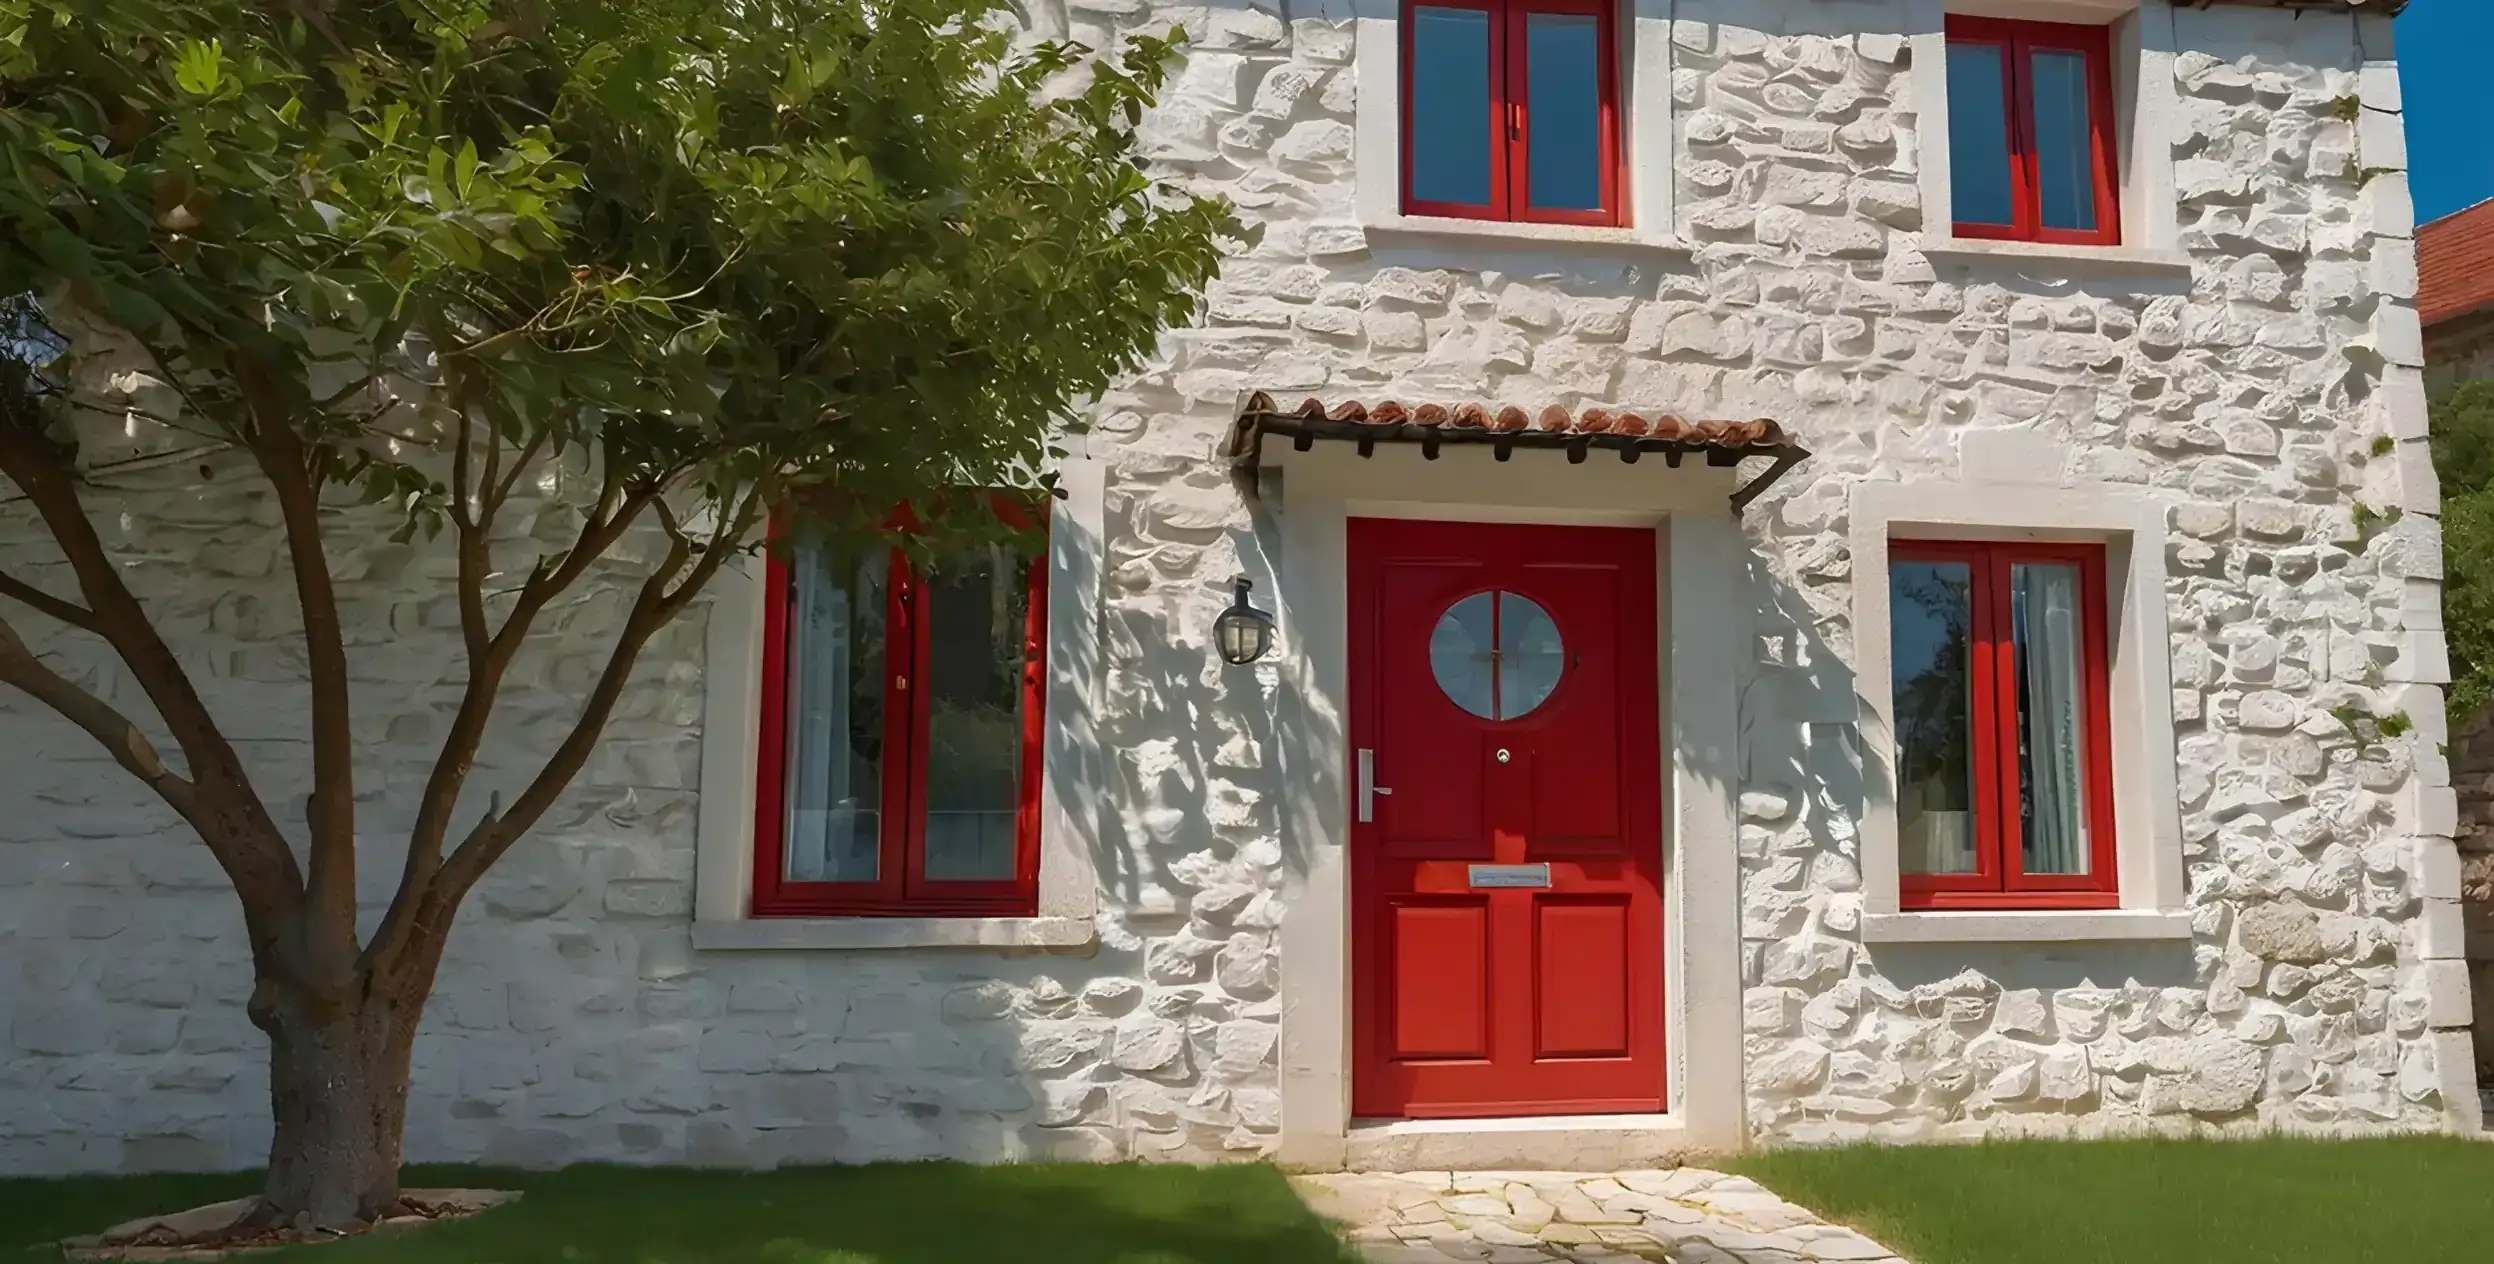
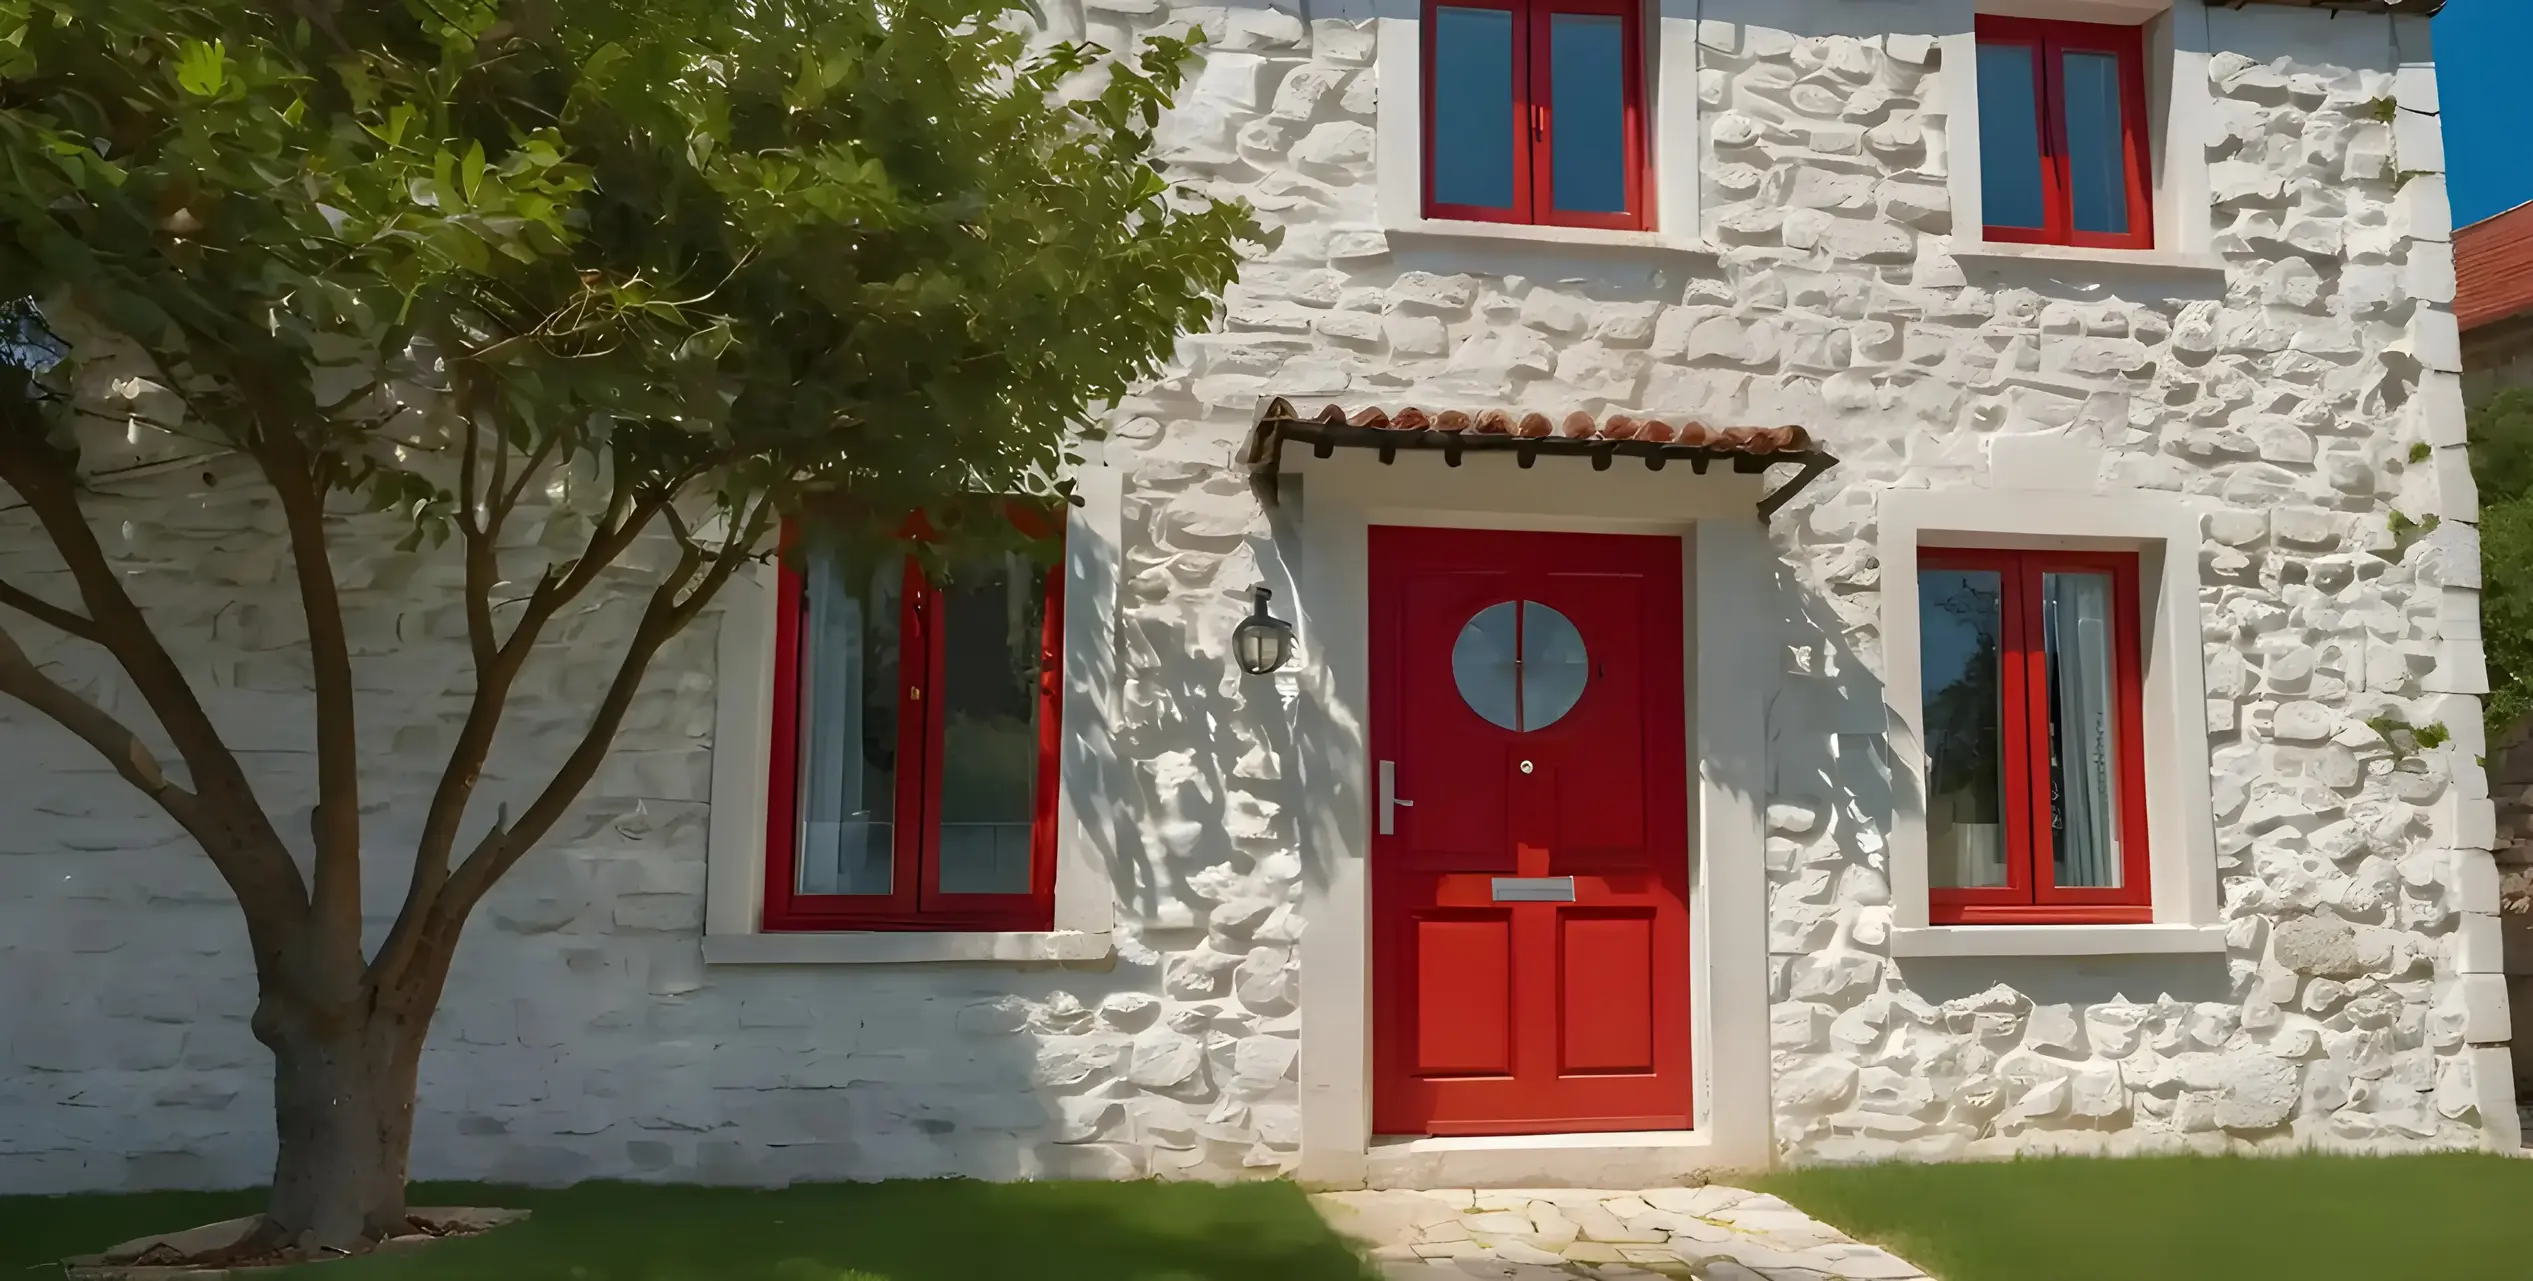
nouveau format image LCP

diff --git a/resources/views/pages/main/accueil.blade.php b/resources/views/pages/main/accueil.blade.php
@@ -49,7 +49,7 @@
                 text="Portes de garage sectionnelles, basculantes, enroulables"
                 iconClass="fa-solid fa-plus"
                 link="services/pose-portes-garage"
-                src="{{ Agent::isMobile() ? Vite::asset('resources/images/responsive/home/services/porte-garage.webp') : Vite::asset('resources/images/home/services/porte-entree.webp') }}"
+                src="{{ Agent::isMobile() ? Vite::asset('resources/images/responsive/home/services/porte-garage.webp') : Vite::asset('resources/images/home/services/porte-garage.webp') }}"
                 imgClass="ratio-3x2"
                 linkClass="btn btn-sm button"
                 buttonName="d'infos"
@@ -62,7 +62,7 @@
                 text="Portail coulissant ou battant"
                 iconClass="fa-solid fa-plus"
                 link="services/pose-portails"
-                src="{{ Agent::isMobile() ? Vite::asset('resources/images/responsive/home/services/portail.webp') : Vite::asset('resources/images/home/services/porte-entree.webp') }}"
+                src="{{ Agent::isMobile() ? Vite::asset('resources/images/responsive/home/services/portail.webp') : Vite::asset('resources/images/home/services/portail.webp') }}"
                 imgClass="ratio-3x2"
                 linkClass="btn btn-sm button"
                 buttonName="d'infos"
@@ -77,7 +77,7 @@
                 text="Volets roulants électriques, solaires"
                 iconClass="fa-solid fa-plus"
                 link="services/pose-volets-roulants"
-                src="{{ Agent::isMobile() ? Vite::asset('resources/images/responsive/home/services/volets-roulants.webp') : Vite::asset('resources/images/home/services/porte-entree.webp') }}"
+                src="{{ Agent::isMobile() ? Vite::asset('resources/images/responsive/home/services/volets-roulants.webp') : Vite::asset('resources/images/home/services/volets-roulants.webp') }}"
                 imgClass="ratio-3x2"
                 linkClass="btn btn-sm button"
                 buttonName="d'infos"
@@ -90,7 +90,7 @@
                 text="Moustiquaires, enroulées, plissées, fixe"
                 iconClass="fa-solid fa-plus"
                 link="services/pose-moustiquaires"
-                src="{{ Agent::isMobile() ? Vite::asset('resources/images/responsive/home/services/volet-moustiquaire.webp') : Vite::asset('resources/images/home/services/porte-entree.webp') }}"
+                src="{{ Agent::isMobile() ? Vite::asset('resources/images/responsive/home/services/volet-moustiquaire.webp') : Vite::asset('resources/images/home/services/volet-moustiquaire.webp') }}"
                 imgClass="ratio-3x2"
                 linkClass="btn btn-sm button"
                 buttonName="d'infos"
@@ -103,7 +103,7 @@
                 text="Dépannage sur volets roulants PVC ou aluminium"
                 iconClass="fa-solid fa-plus"
                 link="services/reparation-volets-roulants"
-                src="{{ Agent::isMobile() ? Vite::asset('resources/images/responsive/home/services/reparation-volet.webp') : Vite::asset('resources/images/home/services/porte-entree.webp') }}"
+                src="{{ Agent::isMobile() ? Vite::asset('resources/images/responsive/home/services/reparation-volet.webp') : Vite::asset('resources/images/home/services/reparation-volet.webp') }}"
                 imgClass="ratio-3x2"
                 linkClass="btn btn-sm button"
                 buttonName="d'infos"
@@ -116,7 +116,7 @@
                 text="Travaux du bâtiment"
                 iconClass="fa-solid fa-plus"
                 link="services/travaux-batiment"
-                src="{{ Agent::isMobile() ? Vite::asset('resources/images/responsive/home/services/pose-parquet.webp') : Vite::asset('resources/images/home/services/porte-entree.webp') }}"
+                src="{{ Agent::isMobile() ? Vite::asset('resources/images/responsive/home/services/pose-parquet.webp') : Vite::asset('resources/images/home/services/pose-parquet.webp') }}"
                 imgClass="ratio-3x2"
                 linkClass="btn btn-sm button"
                 buttonName="d'infos"

diff --git a/resources/views/components/hero.blade.php b/resources/views/components/hero.blade.php
@@ -2,8 +2,8 @@
     <img loading="eager" decoding="async" fetchpriority="high"
          src="{{ Agent::isMobile() ? Vite::asset('resources/images/responsive/home/redHouse.webp') : Vite::asset('resources/images/home/redHouse.webp') }}"
          alt="Une maison à la porte rouge en pierre"
-         width="2494"
-         height="1264"
+         width="2533"
+         height="1281"
     >
     <h1 class="hero-title text-center">
         Artisan menuisier en Plaine de l'Ain <br/>
